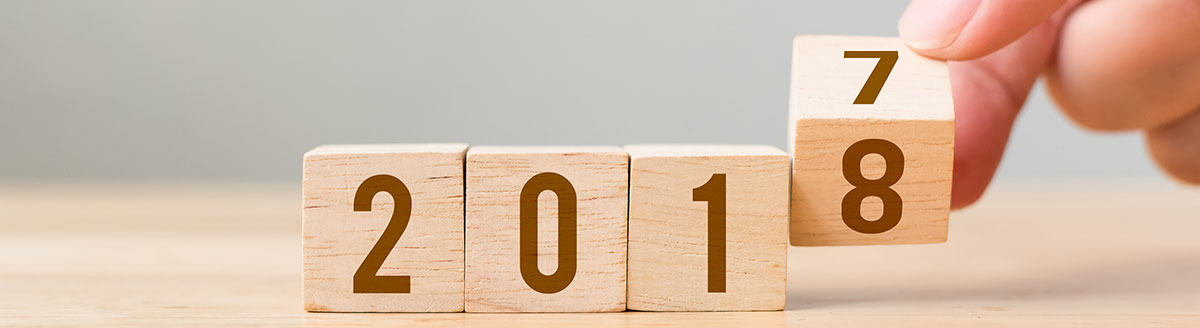
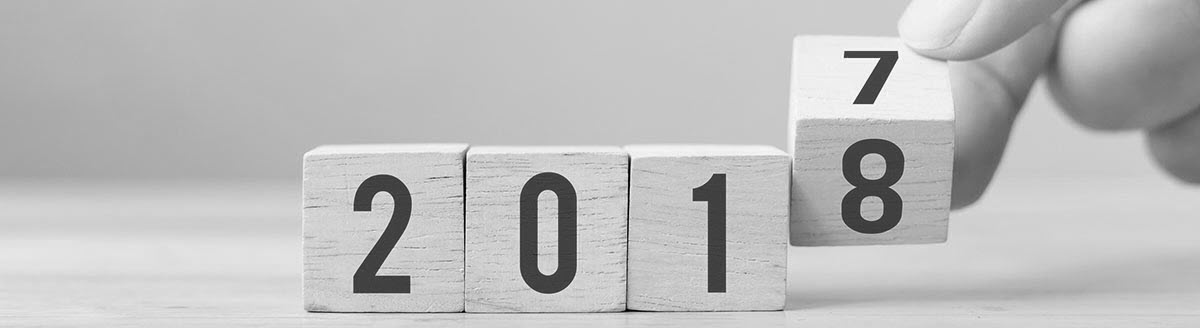
image overlay adjustment

diff --git a/_posts/2018-12-18-2018-Year-In-Review.md b/_posts/2018-12-18-2018-Year-In-Review.md
@@ -6,7 +6,7 @@ title:  "2018 Year in Review"
 excerpt: "A look at some of the accomplishments for 2018"
 header:
   overlay_image: /assets/images/2018yearinreview.jpg
-  overlay_filter: rgba(255, 0, 0, 0.5)
+  overlay_filter: 0.5
 ---
 
 
